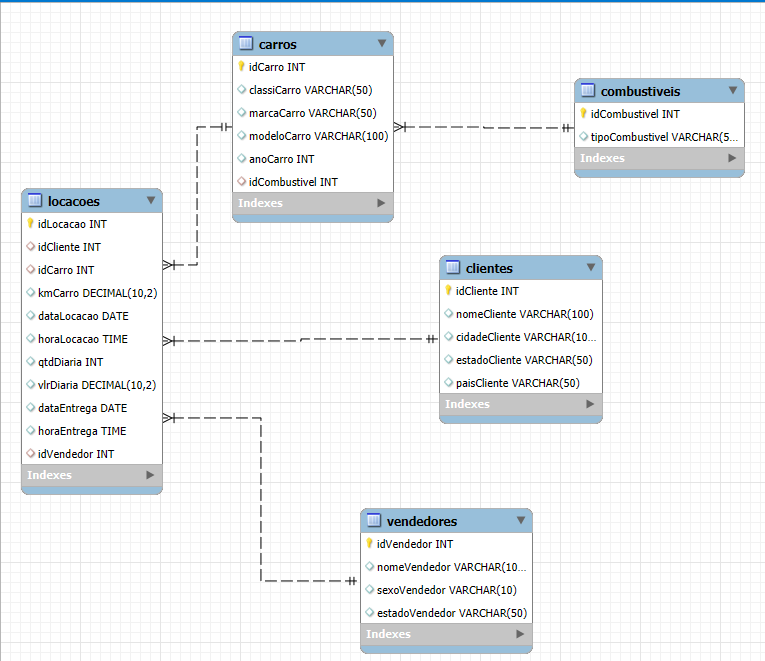
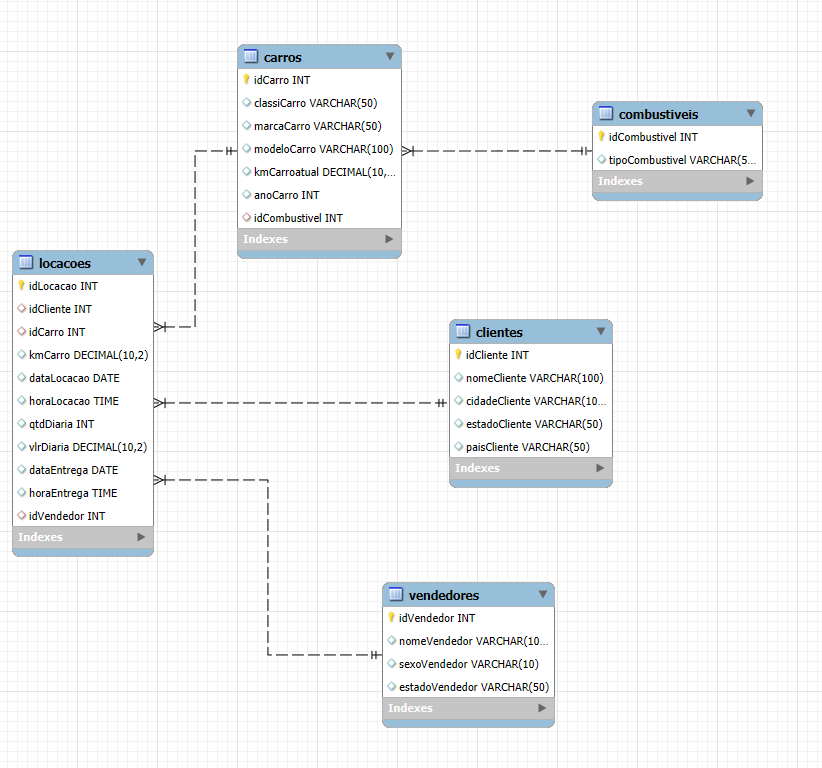
Alterando o codigo eo README

diff --git a/Sprint02/README.md b/Sprint02/README.md
@@ -1,0 +1,43 @@
+# Resumo da Sprint 1
+
+**SQL:**: Aprendi a realizar pesquisas de dados. O curso abrangeu técnicas avançadas para trabalhar com dados, como combinar e filtrar informações de diferentes tabelas, realizar agregações e subconsultas correlacionadas, otimizando a extração de dados complexos. Isso ajuda a obter resultados mais precisos e eficientes em suas consultas de banco de dados.
+
+
+
+**AWS Partners:**: O curso introdutório de vendas para AWS Partners ensina como entender e comunicar a proposta de valor da Amazon Web Services. Ele cobre conceitos básicos de serviços de nuvem, como articular o valor comercial da AWS, lidar com objeções comuns dos clientes e vender em conjunto com a AWS. O objetivo é fornecer ferramentas e modelos mentais para facilitar conversas eficazes sobre vendas de soluções em nuvem com os clientes.
+
+
+# Exercícios
+
+## Biblioteca
+- [Resposta Ex1.](exercicios/ex1.txt)
+- [Resposta Ex2.](exercicios/ex2.txt)
+- [Resposta Ex3.](exercicios/ex3.txt)
+- [Resposta Ex4.](exercicios/ex4.txt)
+- [Resposta Ex5.](exercicios/ex5.txt)
+- [Resposta Ex6.](exercicios/ex6.txt)
+- [Resposta Ex7.](exercicios/ex7.txt)
+
+## Loja
+- [Resposta Ex8.](exercicios/ex8.txt)
+- [Resposta Ex9.](exercicios/ex9.txt)
+- [Resposta Ex10.](exercicios/ex10.txt)
+- [Resposta Ex11.](exercicios/ex11.txt)
+- [Resposta Ex12.](exercicios/ex12.txt)
+- [Resposta Ex13.](exercicios/ex13.txt)
+- [Resposta Ex14.](exercicios/ex14.txt)
+- [Resposta Ex15.](exercicios/ex15.txt)
+- [Resposta Ex16.](exercicios/ex16txt)
+
+## Exportação de dados
+- [Resposta Ex15.](exercicios/ex15.txt)
+- [Resposta Ex16.](exercicios/ex16txt)
+
+
+# Evidências
+
+### Não houve exercícios nessa Sprint
+
+# Certificados
+
+- [Certificado AWS Partner: Sales Accreditation (Business)](../Sprint02/Certificados/aws_certificado.png)

diff --git a/Sprint02/Desafio/README.md b/Sprint02/Desafio/README.md
@@ -52,12 +52,14 @@ Objetivo: Relacionar carros com seus respectivos tipos de combustível, evitando
 
 ```sql
 CREATE TABLE Carros (
-    idCarro INT PRIMARY KEY,              
-    classiCarro VARCHAR(50),              
-    modeloCarro VARCHAR(100),              
-    anoCarro INT,                          
-    idCombustivel INT,                     
-    FOREIGN KEY (idCombustivel) REFERENCES Combustiveis(idCombustivel)  
+    idCarro INT PRIMARY KEY,
+    classiCarro VARCHAR(50),
+    marcaCarro VARCHAR(50),
+    modeloCarro VARCHAR(100),
+    kmCarroatual DECIMAL(10, 2),
+    anoCarro INT,
+    idCombustivel INT,
+    FOREIGN KEY (idCombustivel) REFERENCES Combustiveis(idCombustivel)
 );
 ```
 
@@ -166,9 +168,9 @@ FROM tb_locacao;  -- A origem dos dados é a tabela 'tb_locacao'
 -- Inserção de Dados na tabela 'Carros', a partir da tabela 'tb_locacao', sem duplicidade.
 
 
-INSERT OR IGNORE INTO Carros (idCarro, classiCarro, marcaCarro, modeloCarro, anoCarro, idCombustivel)
-SELECT idCarro, classiCarro, marcaCarro, modeloCarro, anoCarro, idCombustivel
-FROM tb_locacao;  -- A origem dos dados é a tabela 'tb_locacao'
+INSERT OR REPLACE INTO Carros (idCarro, classiCarro, marcaCarro, modeloCarro,kmCarroatual, anoCarro, idCombustivel)
+SELECT DISTINCT idCarro, classiCarro, marcaCarro, modeloCarro,kmCarro, anoCarro, idCombustivel
+FROM tb_locacao;
 
 
 
@@ -216,9 +218,7 @@ SELECT DISTINCT
     ca.marcaCarro AS marca,                 
     ca.modeloCarro AS modelo,               
     ca.anoCarro AS ano,                    
-    (SELECT MAX(kmCarro) 
-     FROM Locacoes l 
-     WHERE l.idCarro = ca.idCarro) AS quilometragem_atual,
+    ca.kmCarroatual AS quilometragem_atual,
     ca.idCombustivel AS id_combustivel,    
     co.tipoCombustivel AS tipo_combustivel
 FROM 
